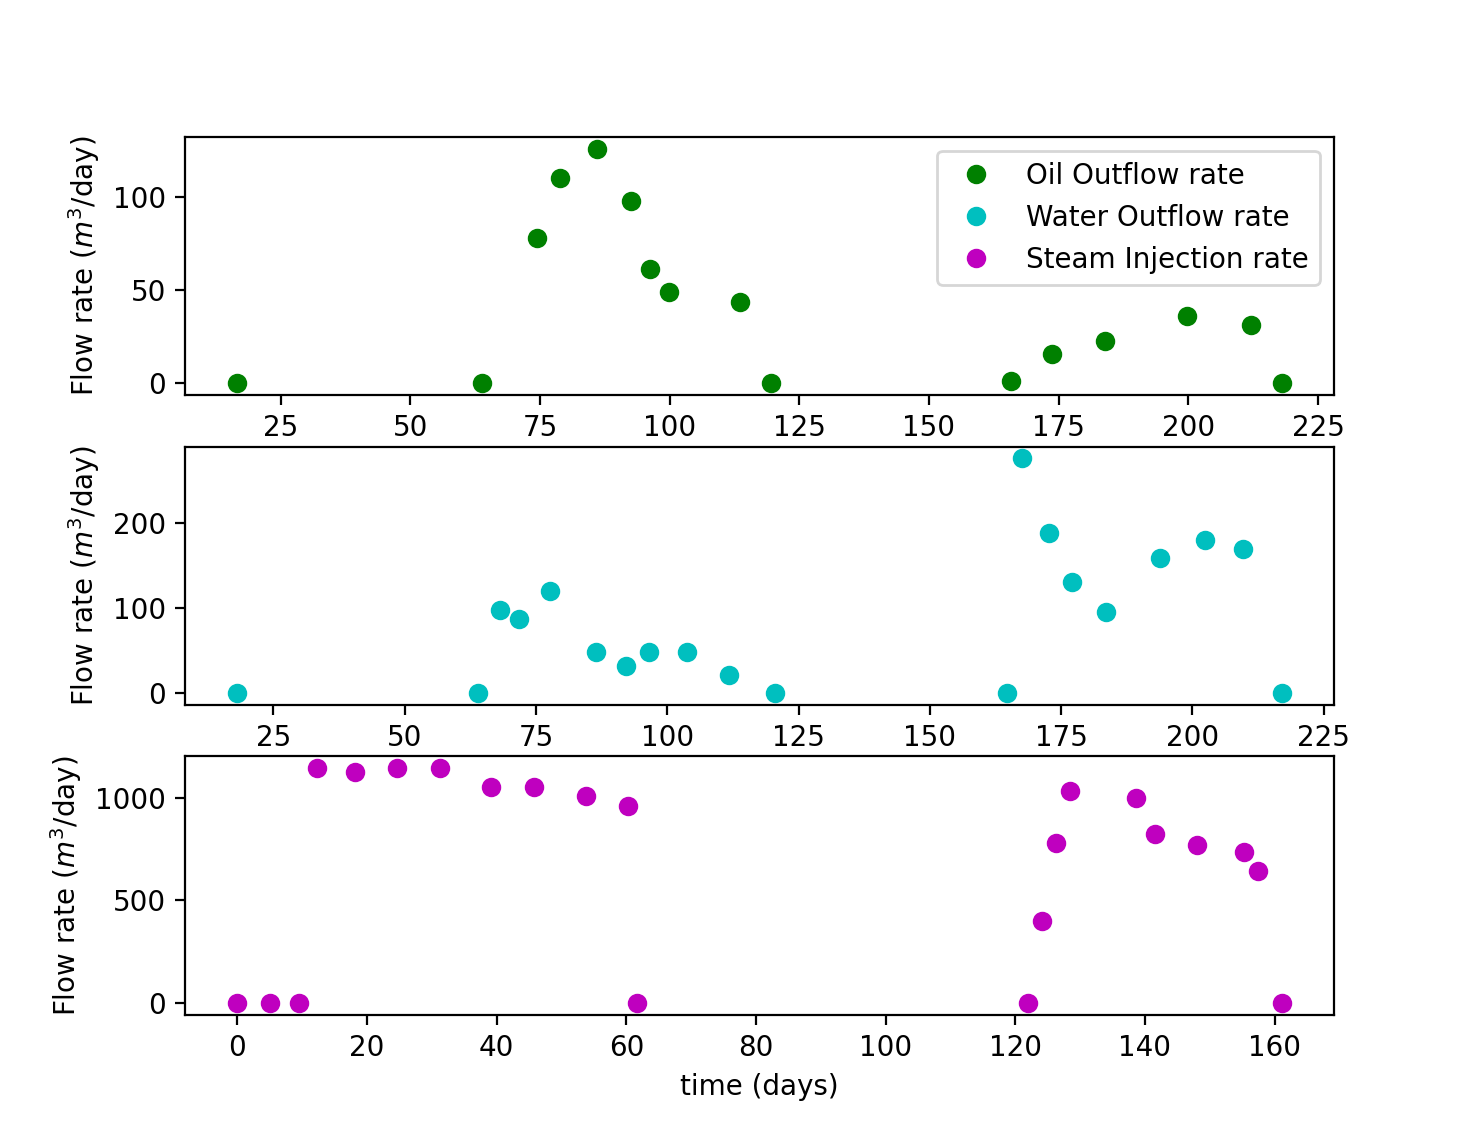
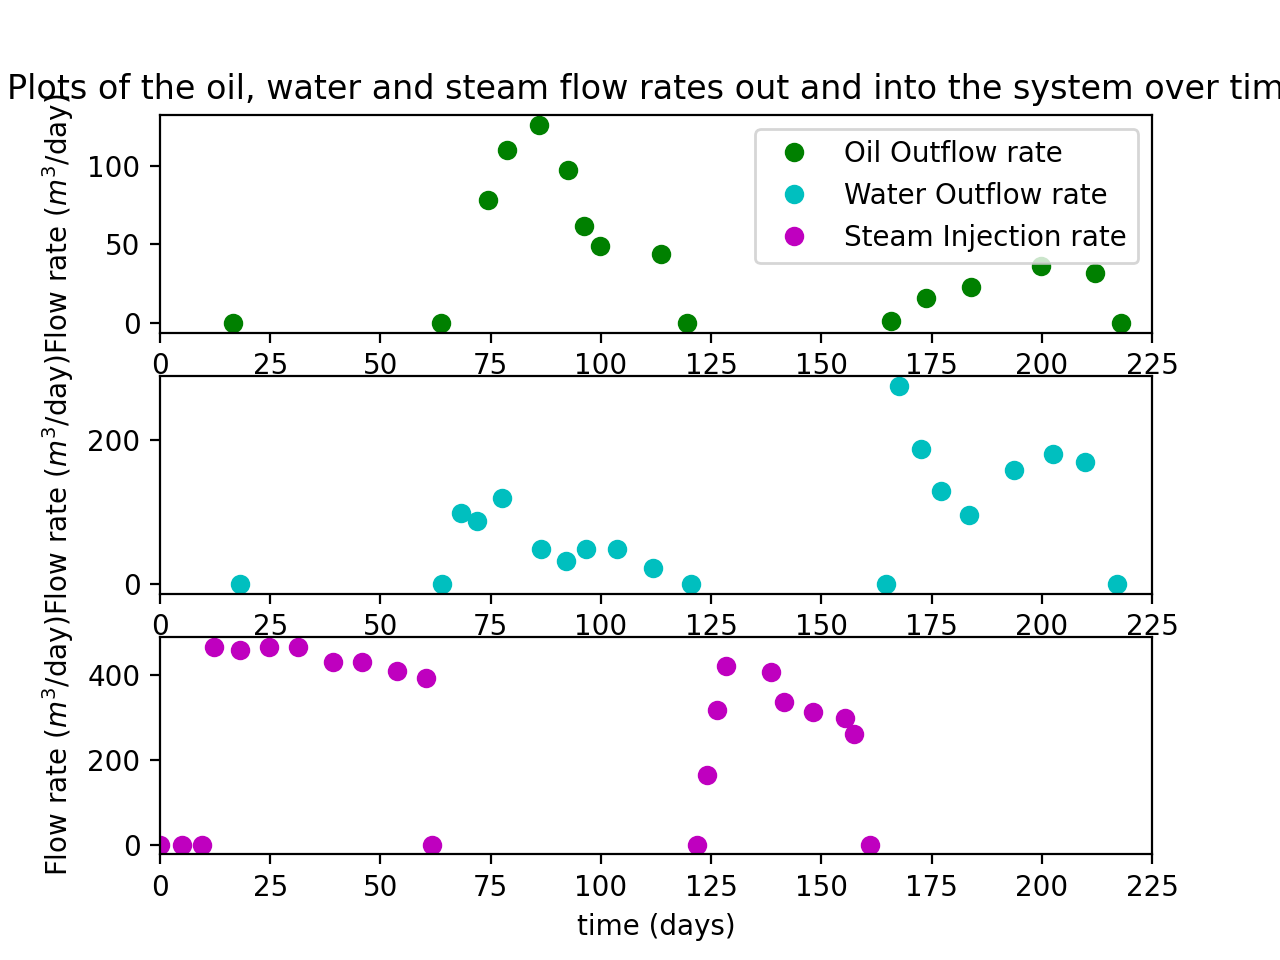
added a subplots histogram

diff --git a/main.py b/main.py
@@ -4,7 +4,7 @@ from prediction.cycle import *
 from model_fitting.cm_solver_functions import *
 from data.interpolate_data import *
 from matplotlib.pyplot import *
-
+from plot_data import *
 # this file should be able to produce all figures included in reports **without modification**
 # Graphs Used in template report:
 #   production & pressure - could be production / injection + temp?
@@ -20,6 +20,11 @@ from matplotlib.pyplot import *
 
 
 if __name__ == "__main__":
+    # plot the pilot data given to us
+    plot_given_TP_data() # temperature and pressure data
+    plot_given_q_data() # inflow and outflow data
+    
+    
     pp = [1.20508397e-01, 3.09508220e-02, 6.56020856e+02, 5.08928148e+03, 1.45644569e+02, 4.77635973e-02]
     Pi = 1.44320757e+03
     Ti = 1.92550478e+02
@@ -121,5 +126,21 @@ if __name__ == "__main__":
         
     plt.legend(names)
     plt.title("Max Temp reached")
+    plt.show()
+
+
+    plots = [0,0,0]
+    fig, (ax0,ax1,ax2) = plt.subplots(3)
+    colours = ["b", "tab:orange", "g"]
+    
+    plot0 = ax0.hist(maxTemps[0], density = True, label = names[0], color = colours[0])[2]
+    plot1 = ax1.hist(maxTemps[1], density = True, label = names[1], color = colours[1])[2]
+    plot2 = ax2.hist(maxTemps[2], density = True, label = names[2], color = colours[2])[2]
+
+        
+    plots = plot0 + plot1 + plot2
+    labs = [l.get_label() for l in plots]
+    ax0.legend(names)
+    ax0.legend(plots, labs)
     plt.show()
 

diff --git a/plot_data.py b/plot_data.py
@@ -32,7 +32,7 @@ def plot_given_TP_data():
     ax1.set_ylabel("Pressure (kPa)")
     ax2.set_ylabel("Temperature ($^\circ$C)")
     ax1.set_xlabel("time (days)")
-
+    plt.title("Plots of the temperature and pressure in the system over time")
     plt.show()
 
 
@@ -56,8 +56,6 @@ def plot_given_q_data():
     # create structure of plots
     fig, ax1 = plt.subplots(3)
 
-    qs = qs*2.4527886845*1000 # from steam calculator for specific volume - tonnes * 2.45 m^3/kg * 1000 kg / tonne
-    # assumes constant input pressure (Should this be the same as system pressure??)
 
     # add data
     plt1 = ax1[0].plot(to, qo, "go", label = "Oil Outflow rate")
@@ -71,7 +69,7 @@ def plot_given_q_data():
     [ax1[i].set_ylabel("Flow rate ($m^3$/day)") for i in range(3)]
     [ax1[i].set_xlabel("time (days)") for i in range(3)]
     [ax1[i].set_xlim([0,225]) for i in range(3)] # set x range to be the same for all 3 plots so that they line up
-
+    ax1[0].set_title("Plots of the oil, water and steam flow rates out and into the system over time")
     plt.show()
 
 if __name__ == "__main__":

diff --git a/model_fitting/benchmark.py b/model_fitting/benchmark.py
@@ -67,13 +67,14 @@ def plot_benchmark():
     time, pressure, temp = ode_solve(model, 0, 10 ,0.1 ,0.9 ,[-1,0,1,1,1,1,1,1,1])
 
     f, ax = plt.subplots(1,1)
+    ax1 = ax.twinx()
     # pressure
     ax.plot(t_analytical, pre_analytical , 'r-', label='Analytical')
     ax.plot(time, pressure, 'bx', label = 'Numerical')
 
     # temp
-    ax.plot(t_analytical, tmp_analytical , 'r-', label='Analytical')
-    ax.plot(time, temp, 'bx', label = 'Numerical')
+    ax1.plot(t_analytical, tmp_analytical , 'r-', label='Analytical')
+    ax1.plot(time, temp, 'bx', label = 'Numerical')
 
     leg = ax.legend()
     ax.legend(loc = 'upper right', frameon = True)
@@ -82,5 +83,5 @@ def plot_benchmark():
     return None
 
 if __name__ == "__main__":
-    # plot_kettle_model()
+    
     plot_benchmark()
